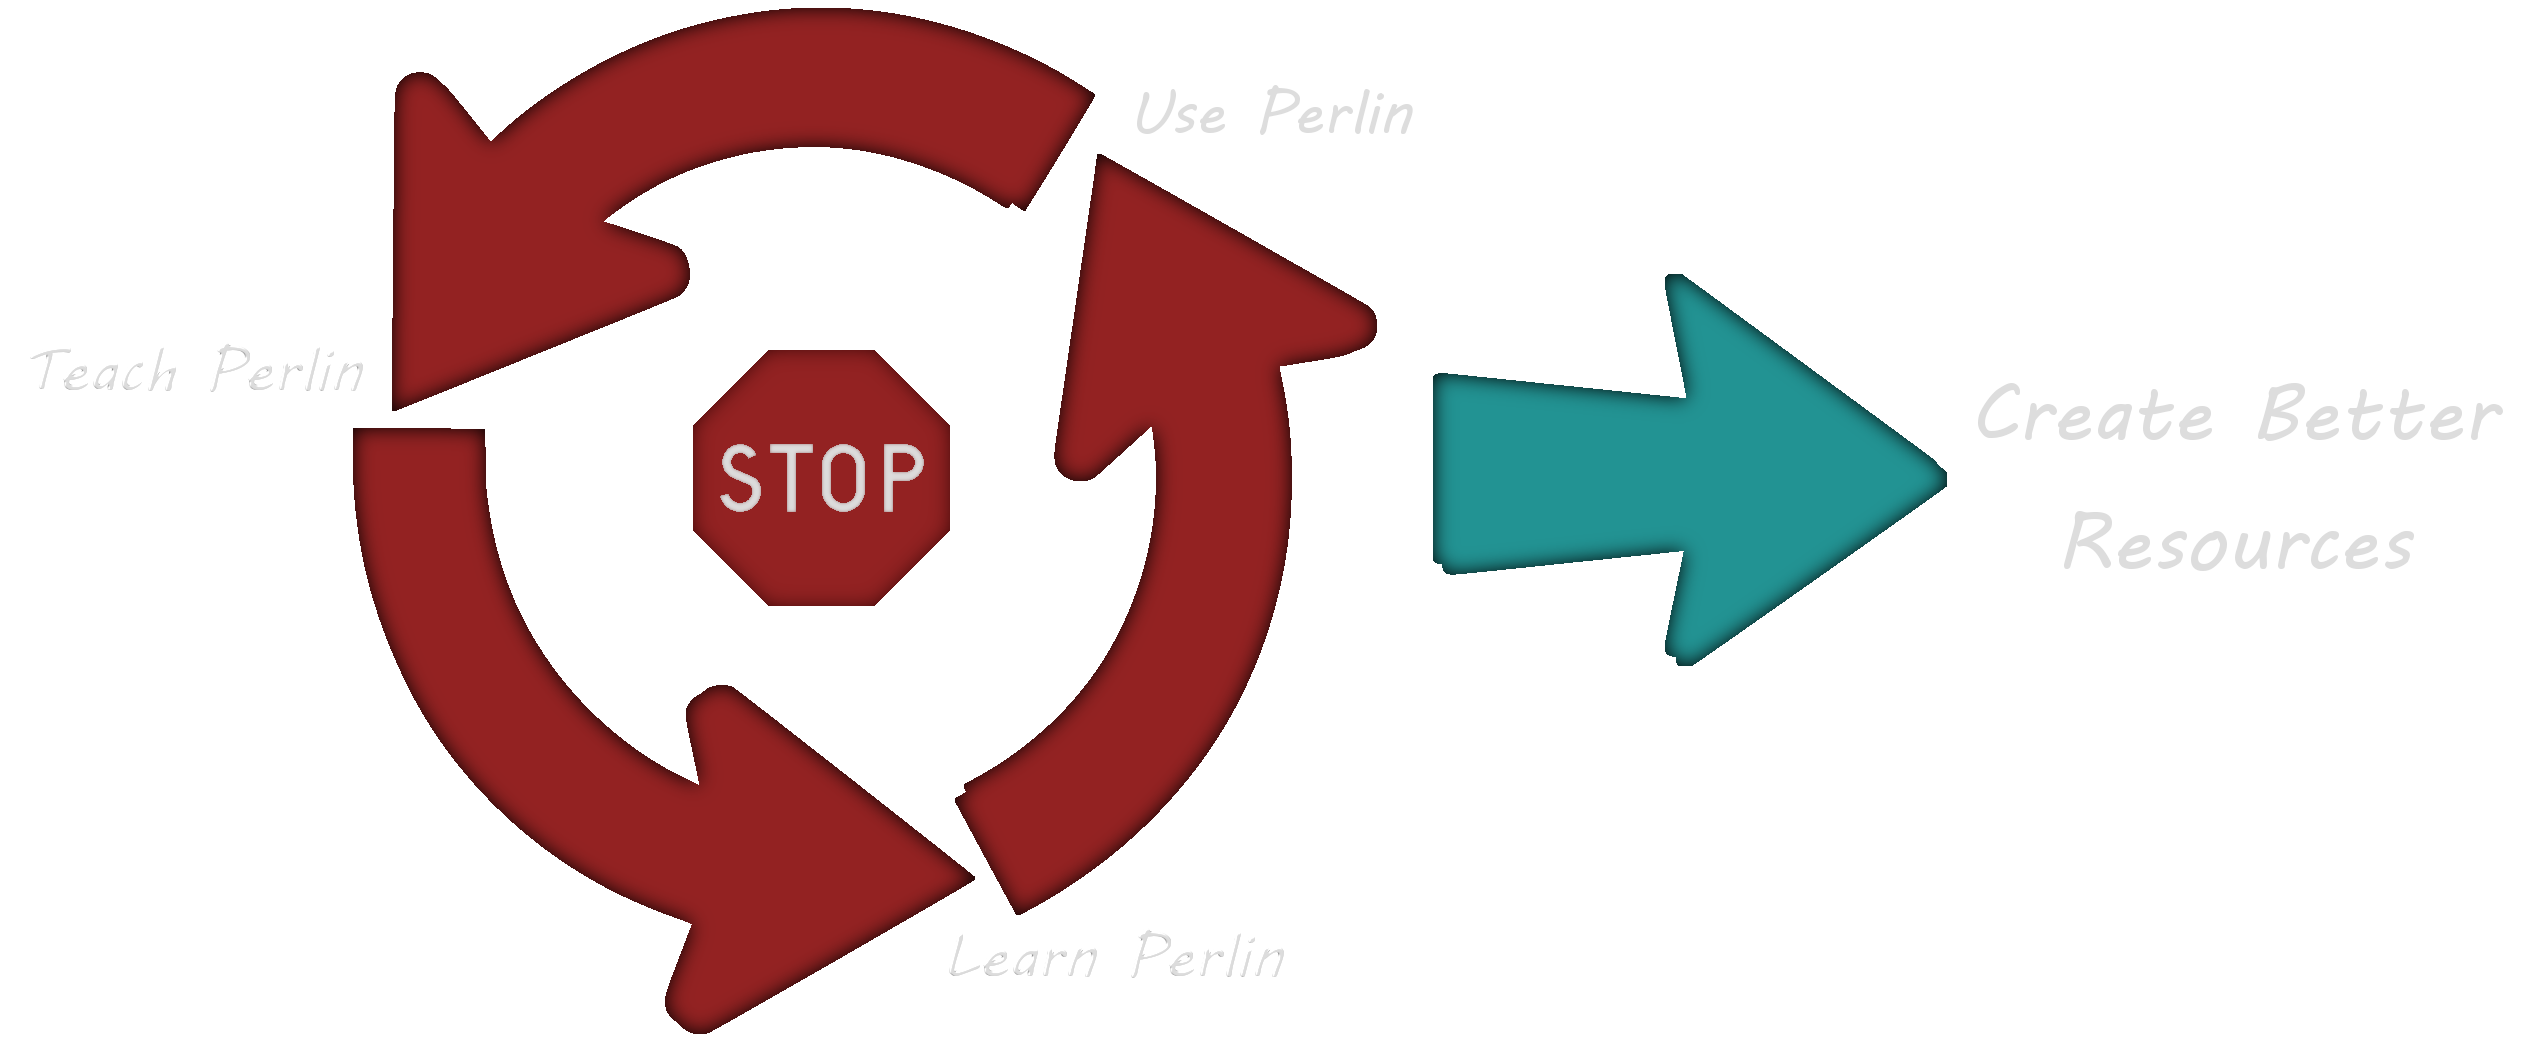
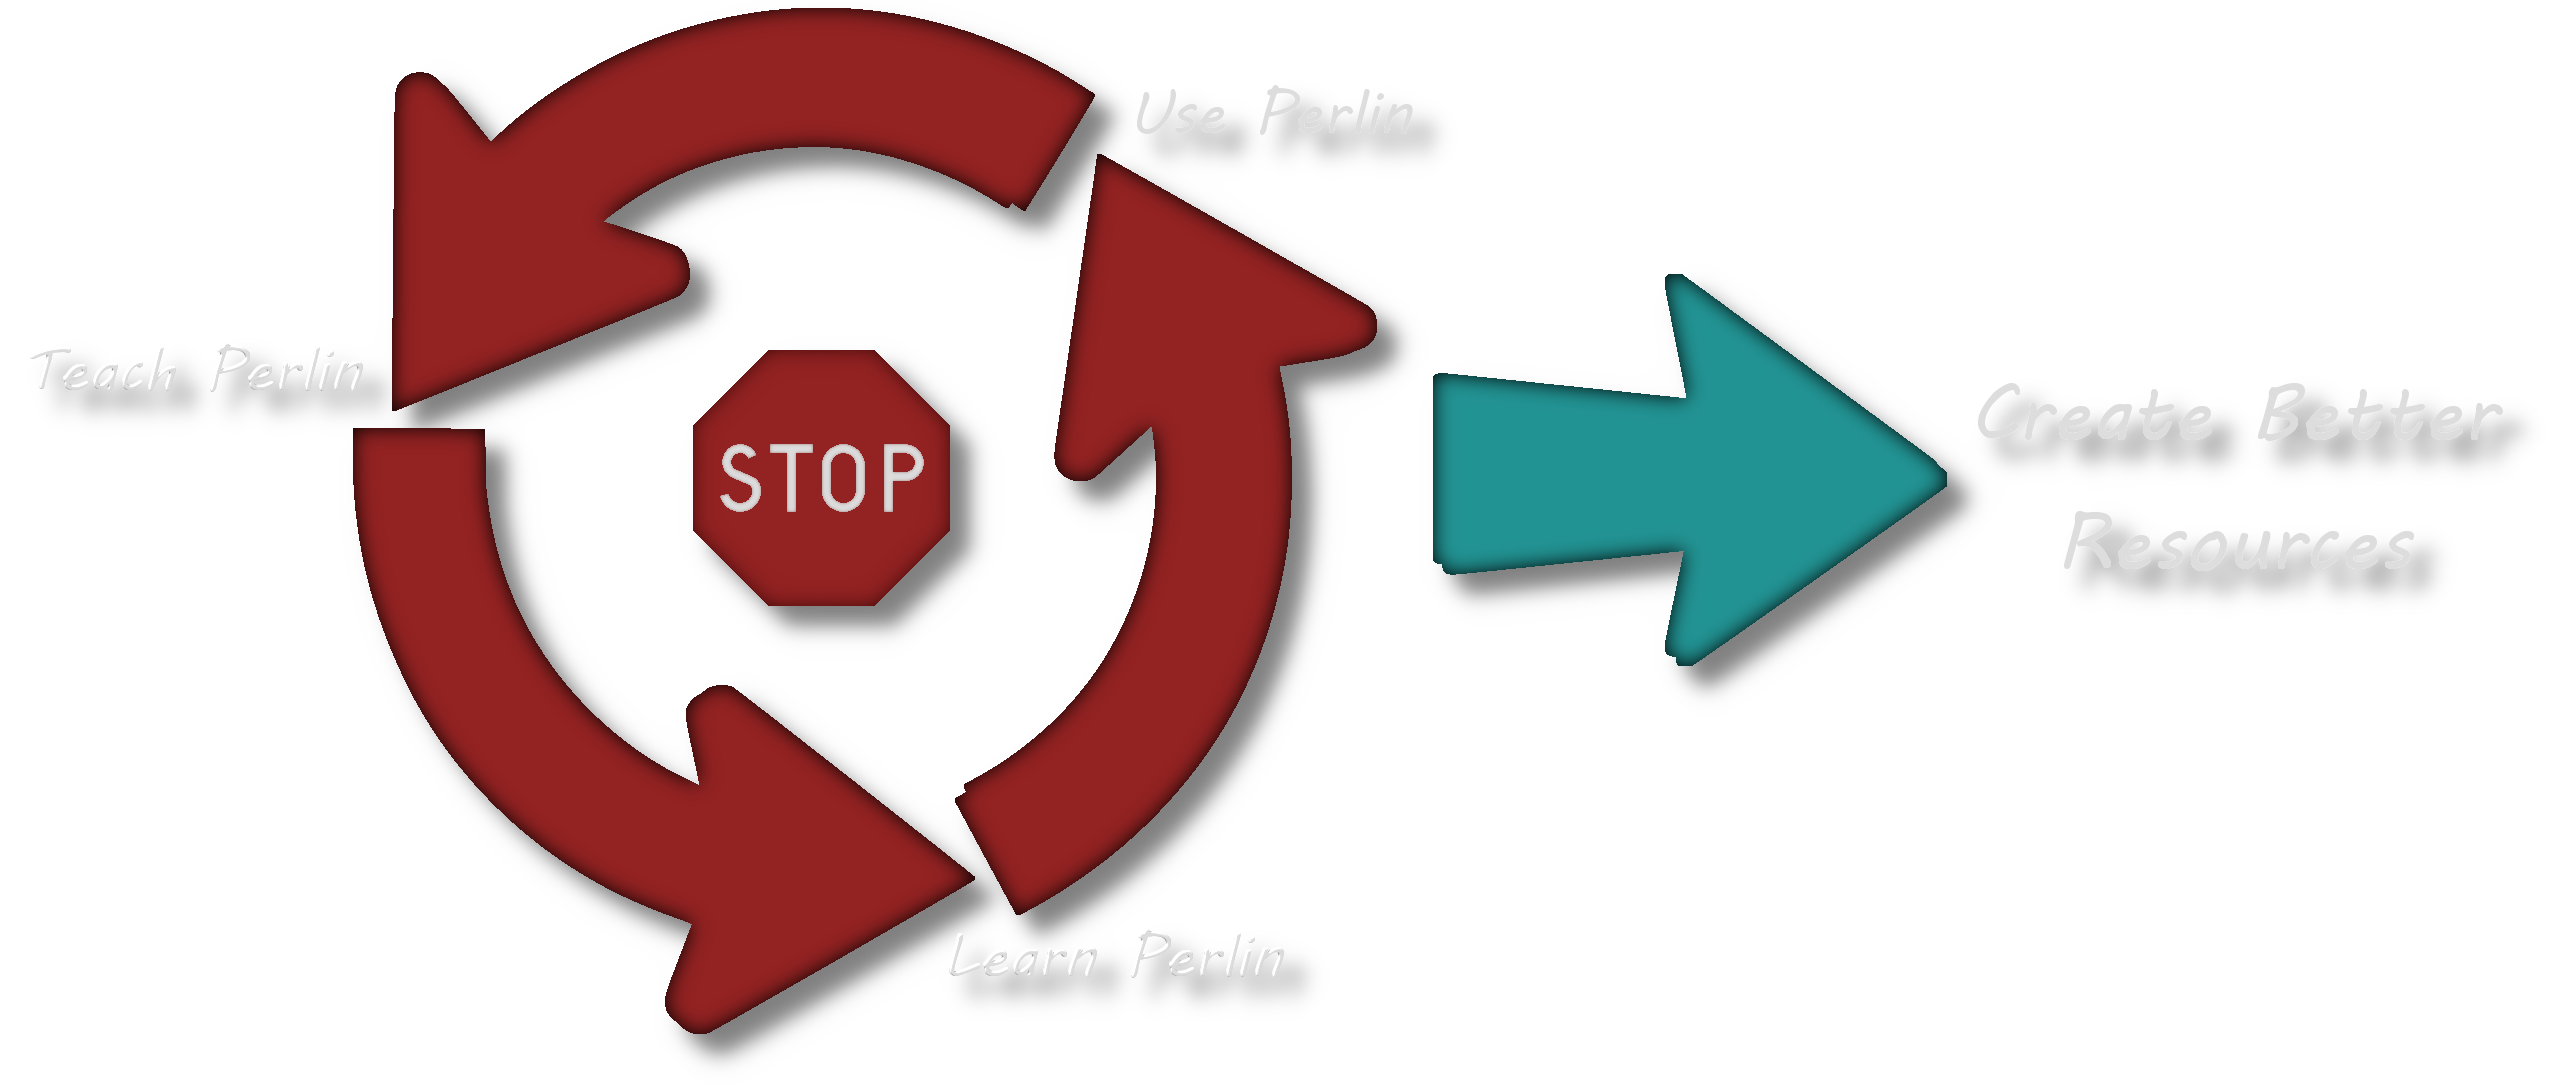
This'll do for now.

diff --git a/_posts/2024-1-20-Evaluating-Multiple-Noise-Seeds-At-Once.md b/_posts/2024-1-20-Evaluating-Multiple-Noise-Seeds-At-Once.md
@@ -4,7 +4,7 @@ title: "Evaluating Multiple Noise Seeds at Once"
 image: /assets/images/multi-seedable-noise/title.png
 ---
 
-Applications built on procedural noise often rely on a network of interconnected noise channels. In certain situations, some of these layers may share a common frequency and differ only in their seeds. This is notably prevalent in cave tunnel generation, biome map sampling, and multi-color blending, where the target patterns can depend fundamentally on the interplay between multiple individual values. As the complexity of a generator grows, so too can the importance of optimization. In this article, I will demonstrate an approach through which multiple seeds of noise can be evaluated using a single efficient function call.
+Procedural generation pipelines often rely on networks of interconnected noise channels. In some situations, several layers may share a frequency and differ only in their seeds. This is common in cave tunnel generation, biome map sampling, and color blending, where the target patterns depend fundamentally on the interplay between multiple individual values. As the complexity of a generator grows, so too can the importance of optimization. In this article, I will demonstrate an approach through which multiple seeds of noise can be evaluated using a single efficient function call.
 
 ----
 
@@ -12,7 +12,7 @@ Applications built on procedural noise often rely on a network of interconnected
 
 The execution of most coordinate-evaluated noise algorithms can be divided into three interwoven steps: *vertex discovery*, *vertex computations*, and *result combination*. The function accepts an input coordinate to identify which vertices are in range. The coordinates of the vertices are then hashed based on the seed to derive specific data such as gradient directions, scalar values, or displacements. Finally, the results are combined, accounting for the positions of each vertex relative to the evaluation point.
 
-While the majority of the generated vertex data relies on the seed of the noise layer, certain procedures are influenced solely by the input coordinate, and remain consistent across all layers of a given frequency. This typically includes the entire discovery phase and part of the vertex computation stage. We can leverage this to evaluate multiple seeds at once, duplicating only the seed-dependent operations.
+While the majority of the generated vertex data relies on the seed of the noise layer, certain procedures are influenced solely by the input coordinate, and remain consistent across all layers of a given frequency. Usually, this includes the entire discovery phase and part of the vertex computation stage. We can leverage this to evaluate multiple seeds at once, duplicating only the seed-dependent operations.
 
 Each noise type examined will include code snippets that demonstrate the refactoring. The full implementations can be found [on GitHub](https://github.com/KdotJPG/Noise-Extras/tree/master/Multi-Seedable Noise).
 
@@ -254,7 +254,7 @@ private static void Contribution(
 {% include figure.html url="/assets/images/multi-seedable-noise/rotated-perlin-plain.png" max_height="384" caption="" caption="Plain 2D slice of 3D Perlin (without/with domain rotation)" %}
 {% include figure.html url="/assets/images/multi-seedable-noise/rotated-perlin-fbm-max-regions.png" max_height="384" caption="" caption="Perlin (domain-rotated 3D slices, fBm, max) forming color-coded regions. Winner chooses color." %}
 
-Perlin noise follows a simpler process to Simplex, and it shares similar seed dependency patterns. While it omits the skew transform (we will still include a [domain rotation](2022-01-16-The-Perlin-Problem-Moving-Past-Square-Noise.html#domain-rotation) for appearance) and ordered edge traversal steps, it retains the floor/modulo operation and seed-independence of its vertex weight computations. Accordingly, the Perlin algorithm can be adapted to support multiple seeds in much the same way as Simplex.
+Perlin noise follows a simpler process to Simplex, and it shares similar seed dependency patterns. While it omits the skew transform (we will still include a [domain rotation](2022-01-16-The-Perlin-Problem-Moving-Past-Square-Noise.html#domain-rotation) for appearance) and ordered edge traversal steps, it retains the floor/modulo operation and seed-independence of its vertex weight computations. Accordingly, the Perlin algorithm can be adapted to support multiple seeds in much the same way.
 
 The following code samples demonstrate the implementation of this change. Note the refactoring of the axis interpolations in the multi-seeded variant into individual falloff weight multipliers. This removes the need for intermediate buffers.
 
@@ -395,9 +395,9 @@ private static void Gradient(
 
 {% include figure.html url="/assets/images/multi-seedable-noise/cellular-tubular-mesh-raycast.png" max_height="384" caption="" caption="Smooth intersection between two channels of `F1²/F2²` cellular noise." %}
 
-Cellular noise, also labeled *Worley* or *Voronoi* noise, has a distinct evaluation procedure. Instead of mixing gradient ramps, it generates its geometric appearance by tracking the distances of pseudorandomly-distributed points -- typically displaced grid vertices. The smallest values corresponding to the closest points' distances are then passed through any final calculations, and a result is returned. In spite of its differences, however, its core implementation pattern still aligns with the three-step mold.
+Cellular noise, also known as *Worley* or *Voronoi* noise, has a distinct evaluation procedure. Instead of mixing gradient ramps, it generates its geometric appearance by tracking the distances of pseudorandomly-distributed points -- typically displaced grid vertices. The smallest values corresponding to the closest points' distances are then passed through any final calculations, and a result is returned. In spite of its differences, however, its core implementation pattern still aligns with the three-step mold.
 
-Among the various conceptualizations of cellular noise, we will focus on a specific variant: one involving a cube grid for simplicity, a full displacement range for quality, skip conditions for efficiency, and a group-sorted iteration order to faciliate the skip conditions. In this implementation, there is no grid skew step -- only an optional rotation, and one point is chosen within each cube as an *offset* from its originating vertex. Evaluation entails checking every base cell that could contain a point that would impact the final result, until it is certain that the closest point is found. We will also use a simple `F1²` return result, which corresponds to the unprocessed squared Euclidean distance to the closest point.
+Among the various conceptualizations of cellular noise, we will focus on a specific variant: one involving a cube grid for simplicity, a full displacement range for quality, skip conditions for efficiency, and a group-sorted iteration order to faciliate the skip conditions. In this implementation, there is no grid skew step -- only an optional rotation, and one point is chosen within each cube as an *offset* from its originating vertex. Evaluation entails checking every base cell that could contain a relevant point until it is certain that the closest is found. We will also use a simple `F1²` return result, which corresponds to the unprocessed squared Euclidean distance to the closest point.
 
 Note the behavior of the skip conditions in the following implementations. In the multi-seeded embodiment, it must consider an aggregate bound across the entire channel set.
 
@@ -423,7 +423,7 @@ public static double Noise3_ImproveXZ(long seed, double x, double y, double z) {
 	z += xzOffset;
 	y = yRescaled - xPlusZ * Root3Over3;
 
-	int xBase = ExtraMath.FastFloor(x), yBase = ExtraMath.FastFloor(y), zBase = ExtraMath.FastFloor(z);
+	int xBase = FastFloor(x), yBase = FastFloor(y), zBase = FastFloor(z);
 	double xDelta = x - xBase, yDelta = y - yBase, zDelta = z - zBase;
 	long xBasePrimed = xBase * PRIME_X, yBasePrimed = yBase * PRIME_Y, zBasePrimed = zBase * PRIME_Z;
 
@@ -586,9 +586,9 @@ The next three capture the amortized runtime per individual value produced.
 
 Several notable observations can be drawn from this data.
 
-First, the multi-seeded noise implementations display measurable improvements in efficiency as the number of seeds increases. Among the evaluated noise types, Simplex showcases the most gradual growth in runtime, followed by Cellular, with Perlin falling in last. This discrepancy in the technique's efficacy appears correlated with the intensity of the seed-independent operations in each noise type. Simplex involves grid transformations and falloff functions, this particular Cellular implementation performs some pre-processing for its skip conditions, all while Perlin requires only a few smoothstep evaluations. As a result, it is difficult to optimize Perlin to the same degree with this technique.
+First, the multi-seeded noise implementations display measurable improvements in efficiency as the number of seeds increases. Among the evaluated noise types, Simplex showcases the most gradual growth in runtime, followed by Cellular, with Perlin falling in last. This discrepancy in the technique's efficacy appears correlated with the intensity of the seed-independent operations in each noise type. Simplex involves grid transformations and falloff functions, this particular Cellular implementation performs some pre-processing for its skip conditions, all while Perlin requires only a few smoothstep evaluations. As a result, it is difficult to optimize Perlin to the same degree.
 
-Secondly, Cellular's amortized runtime curves convey non-monotonic trends, which might relate to the skip conditions in this implementation. The early stopping conditions significantly improve the algorithm's initial performance, as it would otherwise process all 81 possible points every evaluation, but can become less likely to take effect as more seeds' distances are processed in parallel. The increasing trend for the individual evaluator may relate to discrepancies at the hardware branch prediction level. It's worth noting that the 3D cellular functions in many popular libraries only check 27 distances, but lack the early return functionality present in the example here.
+Secondly, Cellular's amortized runtime curves convey non-monotonic trends, likely related to the skip conditions in this implementation. These early exits significantly improve the algorithm's initial performance, as it would otherwise process all 81 possible points every evaluation, but become less likely to activate as more seeds' distances are processed in parallel. The increasing trend for the individual evaluator may arise in part from discrepancies at the hardware branch prediction level. It's worth noting that the 3D cellular functions in many popular libraries only check 27 distances, but lack the early return functionality present in the example here.
 
 Furthermore, for a single seed, the standard evaluators remain marginally more efficient. This is to be expected, as the loops and dereferencing in the multi-seedable implementations introduce some overhead into the procedures. Once two or more seeds are in play, all three multi-seedable implementations take the lead.
 
@@ -632,4 +632,4 @@ Finally, the absolute efficiencies of the multi-seed variants follow the same or
 
 ### Conclusion
 
-Combining identically-configured noise channels into a single function call can considerably improve the performance characteristics of a generator. By repeating only the seed-dependent steps, this optimization yields measurable speed increases -- nearly doubling the efficiency of Simplex for only four layers. While the situations where this technique applies can be specific, and certain tradeoffs may need to be considered, it provides promising potential to accelerate a host of common scenarios.
+Combining identically-configured noise channels can considerably improve performance. By repeating only the seed-dependent steps, significant speed increases can be achieved -- nearly double for Simplex with only four layers. While this technique might not always apply, its benefits are clear where it does.

diff --git a/_posts/2022-01-16-The-Perlin-Problem-Breaking-The-Cycle.md b/_posts/2022-01-16-The-Perlin-Problem-Breaking-The-Cycle.md
@@ -5,7 +5,7 @@ image: /assets/images/the-perlin-problem-moving-past-square-noise/cycle.png
 date: 2022-01-16 1
 ---
 
-In [The Perlin Problem: Moving Past Square Noise](/posts/2022-01-16-The-Perlin-Problem-Moving-Past-Square-Noise.html), I shed light on the axis alignment problems Perlin and related noises carry in their unmitigated forms. I then covered two key tools we have to address them: Simplex-type noise and Domain Rotation. Here, I will recommend a set of best practices we can employ to improve the information we contribute to the field, keeping our content as helpful as possible.
+In [The Perlin Problem: Moving Past Square Noise](/posts/2022-01-16-The-Perlin-Problem-Moving-Past-Square-Noise.html), I shed light on the axis alignment problems Perlin and related noises carry in their unmitigated forms. I then covered two key tools we have to address them: Simplex-type noise and Domain Rotation. Here, I will recommend a set of best practices we can employ to keep the content we contribute to the field as helpful as possible.
 
 ### Overview
 